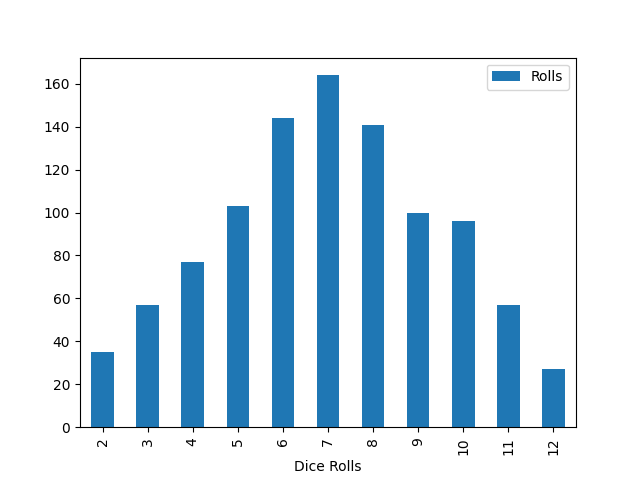
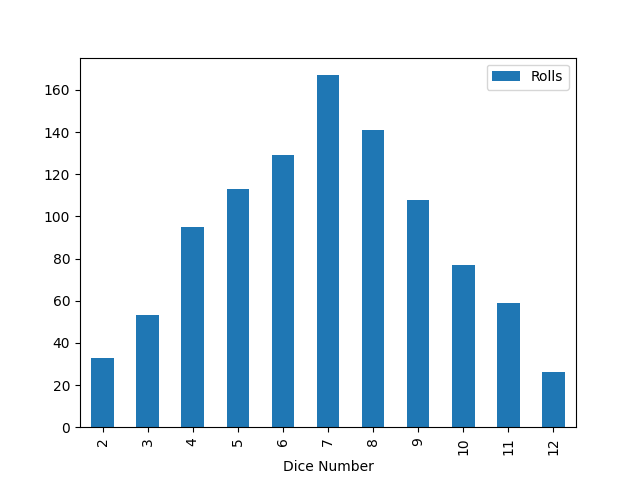
Added results to README.md so that you can visually compare side-by-side results.

diff --git a/src/helpers.py b/src/helpers.py
@@ -9,10 +9,10 @@ import os
 def get_df(data):
     """Create a Pandas Dataframe from the rolls data."""
     df = pd.DataFrame({
-        'Dice Rolls': list(data.keys()),
+        'Dice Number': list(data.keys()),
         'Rolls': list(data.values())
     })
-    df.sort_values(by=['Dice Rolls'], inplace=True)
+    df.sort_values(by=['Dice Number'], inplace=True)
     return df
 
 
@@ -27,11 +27,11 @@ def write_chart(df, mode, number_of_rolls):
     """Plot the rolls data as a chart."""
     if not os.path.exists('results/png'):
         os.makedirs('results/png')
-    df.plot(x ='Dice Rolls', y='Rolls', kind = 'bar')
+    df.plot(x ='Dice Number', y='Rolls', kind = 'bar')
     plt.savefig(f'results/png/{mode}-mode-{number_of_rolls}.png')
 
 
 def plot_chart(df):
     """Plot the rolls data as a chart."""
-    df.plot(x ='Dice Rolls', y='Rolls', kind = 'bar')
+    df.plot(x ='Dice Number', y='Rolls', kind = 'bar')
     plt.show()

diff --git a/README.md b/README.md
@@ -21,3 +21,15 @@ Run the docker container.
 ```bash
 make run
 ```
+
+## Results
+
+| Number Of Rolls | RNG Mode                                  | Dice Mode                                 |
+|-----------------|-------------------------------------------|-------------------------------------------|
+| 25              | ![25](results/png/rng-mode-25.png)        | ![25](results/png/dice-mode-25.png)       |
+| 50              | ![50](results/png/rng-mode-50.png)        | ![50](results/png/dice-mode-50.png)       |
+| 75              | ![75](results/png/rng-mode-75.png)        | ![75](results/png/dice-mode-75.png)       |
+| 100             | ![100](results/png/rng-mode-100.png)      | ![100](results/png/dice-mode-100.png)     |
+| 1000            | ![1000](results/png/rng-mode-1000.png)    | ![1000](results/png/dice-mode-1000.png)   |
+| 5000            | ![5000](results/png/rng-mode-5000.png)    | ![5000](results/png/dice-mode-5000.png)   |
+| 10000           | ![10000](results/png/rng-mode-10000.png)  | ![10000](results/png/dice-mode-10000.png) |
